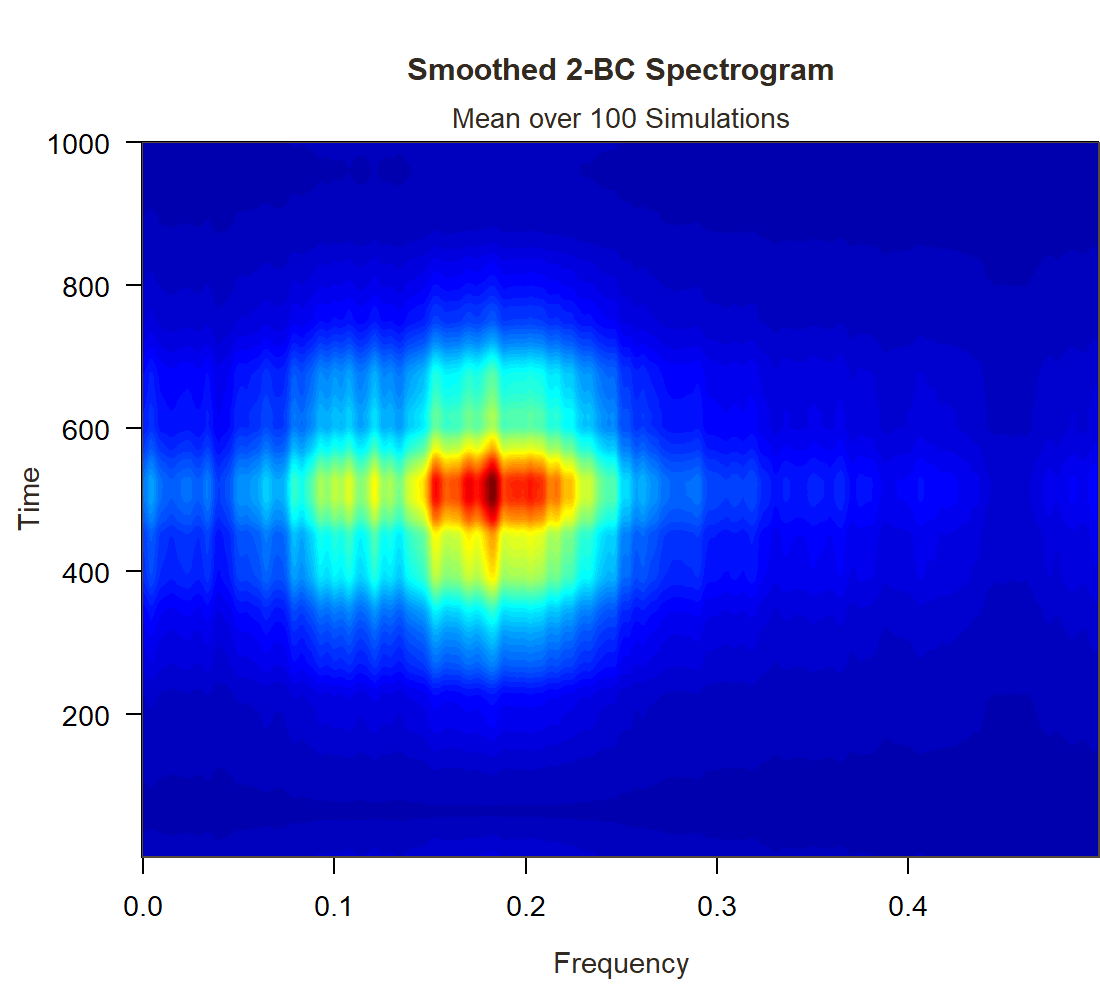
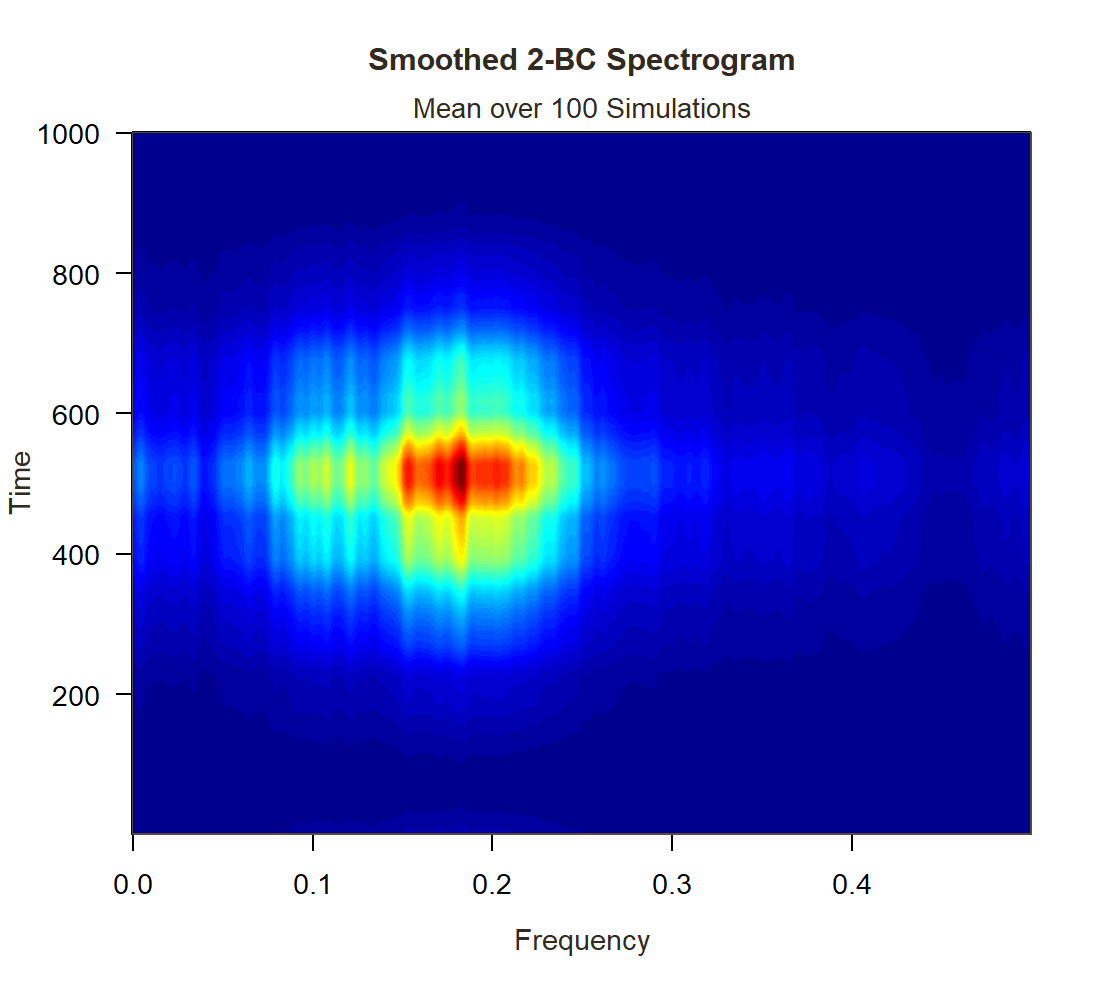
double checked cbc function, re-ran some plots

diff --git a/ICASSP/README.md b/ICASSP/README.md
@@ -33,12 +33,10 @@ Results computed for block-widths $B = 200, 300$.
 ### Estimating G
 
 #### Produced results using Azadeh's method (singular value decomposition)  
-
 * Have to multiply $\hat g(t)$ by -1
 * even then, at some times, $\hat g(t) < 0$. This is illegal, since $g$ is the square of a real-valued function, by definition.
 
 #### Produced results using our method (eigenvector problem)  
-
 * Always positive
 * Better on average than SVD method: less bias, also smoother
 
@@ -51,22 +49,18 @@ Go to [This Folder](https://github.com/Skyepaphora-Griffith/PhD_Proposal/tree/ma
 ### Estimating $S_Y(f)$
 
 #### Produced results using Azadeh's method (singular value decomposition)  
-
 * Azadeh outlines where this estimate comes from in section 4.3 of her thesis. It's similar to getting $\hat g$, but is based on $V_1$ instead of $U_1$.
 * Have to multiply $\hat S_Y(f)$ by -1, like we did for $\hat g(t)$.
 
-#### Produced results using our method (eigenvector problem)  
-
+#### Produced results using our method (eigenvalue problem)  
 * Performs Similarly to SVD method, on average, it seems.
 
 #### Plotted results
-
 Go to [This Folder](https://github.com/Skyepaphora-Griffith/PhD_Proposal/tree/main/ICASSP/PaperPlots) and look for filenames beginning with `yf_`
 
 --- 
 
 ### Smooth Spectrograms
-
 * Plotted outer product of $\hat g$ and $\hat S_Y(f)$; estimates taken from our method
 * Did this for each simulation, plotted average over all 100 smoothed spectrograms.
 * Also plotted results for a single simulation
@@ -81,39 +75,33 @@ Go to [This Folder](https://github.com/Skyepaphora-Griffith/PhD_Proposal/tree/ma
 
 ## Paper
 
-* The template has two citation types. One for general references, I guess, and one for IEEE proceedings papers? So if I reference *old* IEEE papers I should use the latter? right? 
+#### Standard error
+* Talked about this, will consider for proposal, not paper
+
+#### rename estimates
+* For polynomials of order $p$, the estimator which uses the NSQI-based boundary correction for the SWHRS will be called the $p$-BC.
+* Azadeh's estimates for $g$ and $S_Y(f)$ will be denoted with a subscript $1$. Mine will have a subscript of $2$.
+
+#### Formatting
+* smaller plots
+* got rid of the $\hat y(t) = x(t)/\hat c(t)$ stuff
 
 ---
 
 ## What needs to be done
 
-#### Standard error
-When I say "normalize," I mean dividing a function (example: $\hat g$) by its maximum value, so that the normalized range maxes out at 1.
-
-In general, I'm normalizing the average result over 100 *un-normalized* estimates. If I do it the other way around (ie: taking the average over 100 *normalized* estimates) then the final result is guaranteed to underestimate the true function. How do I calculate the standard error according to this method? I don't think it's correct to simply take the average standard error across all estimates and then normalize it in the same way. 
-
-Can standard error be omitted from the plots? Do we need to comment on this in the paper?
-
 #### references
+* The template has two citation types. One for general references, I guess, and one for IEEE proceedings papers? So if I reference *old* IEEE papers I should use the latter? right? 
 * Having trouble sourcing an expression for the HRS that matches the one in Azadeh's thesis - equation 3.20
     - checked thomson 93 and 98
     - maybe for now I'll just reference Azadeh idk
 
-#### rename estimates
-
-* Unless I'm mistaken, Glen proposes we call the BCMTFSE and CBCMTFSE the 1-BC and 2-BC, respectively (and for general polynomials of order $p$, the $p$-BC). My issue with this: the $p$-"Boundary Corrected" *what?* We talked forever about how spectrograms are TFS estimates and you said to take out the word spectrogram, but now it's just $p$-"Boundary Corrected" which means nothing out of context.
-* What do we call our $\hat g$? What do we call our $\hat Y$?
-* I'm calling the new spectrogram the "Time Smoothed" Spectrogram. Time smoothing can apply to any spectrogram of a UMP.
-
 #### Formatting
-
 * the titles suck, I know, please help
 * why is Wesley's name and info weirdly offset? 
 * make equations small enough to fit in a column
 * too long - can't fit all figures
 * some figures seem to clip off the text in adjacent columns
-
-
 
 
 
